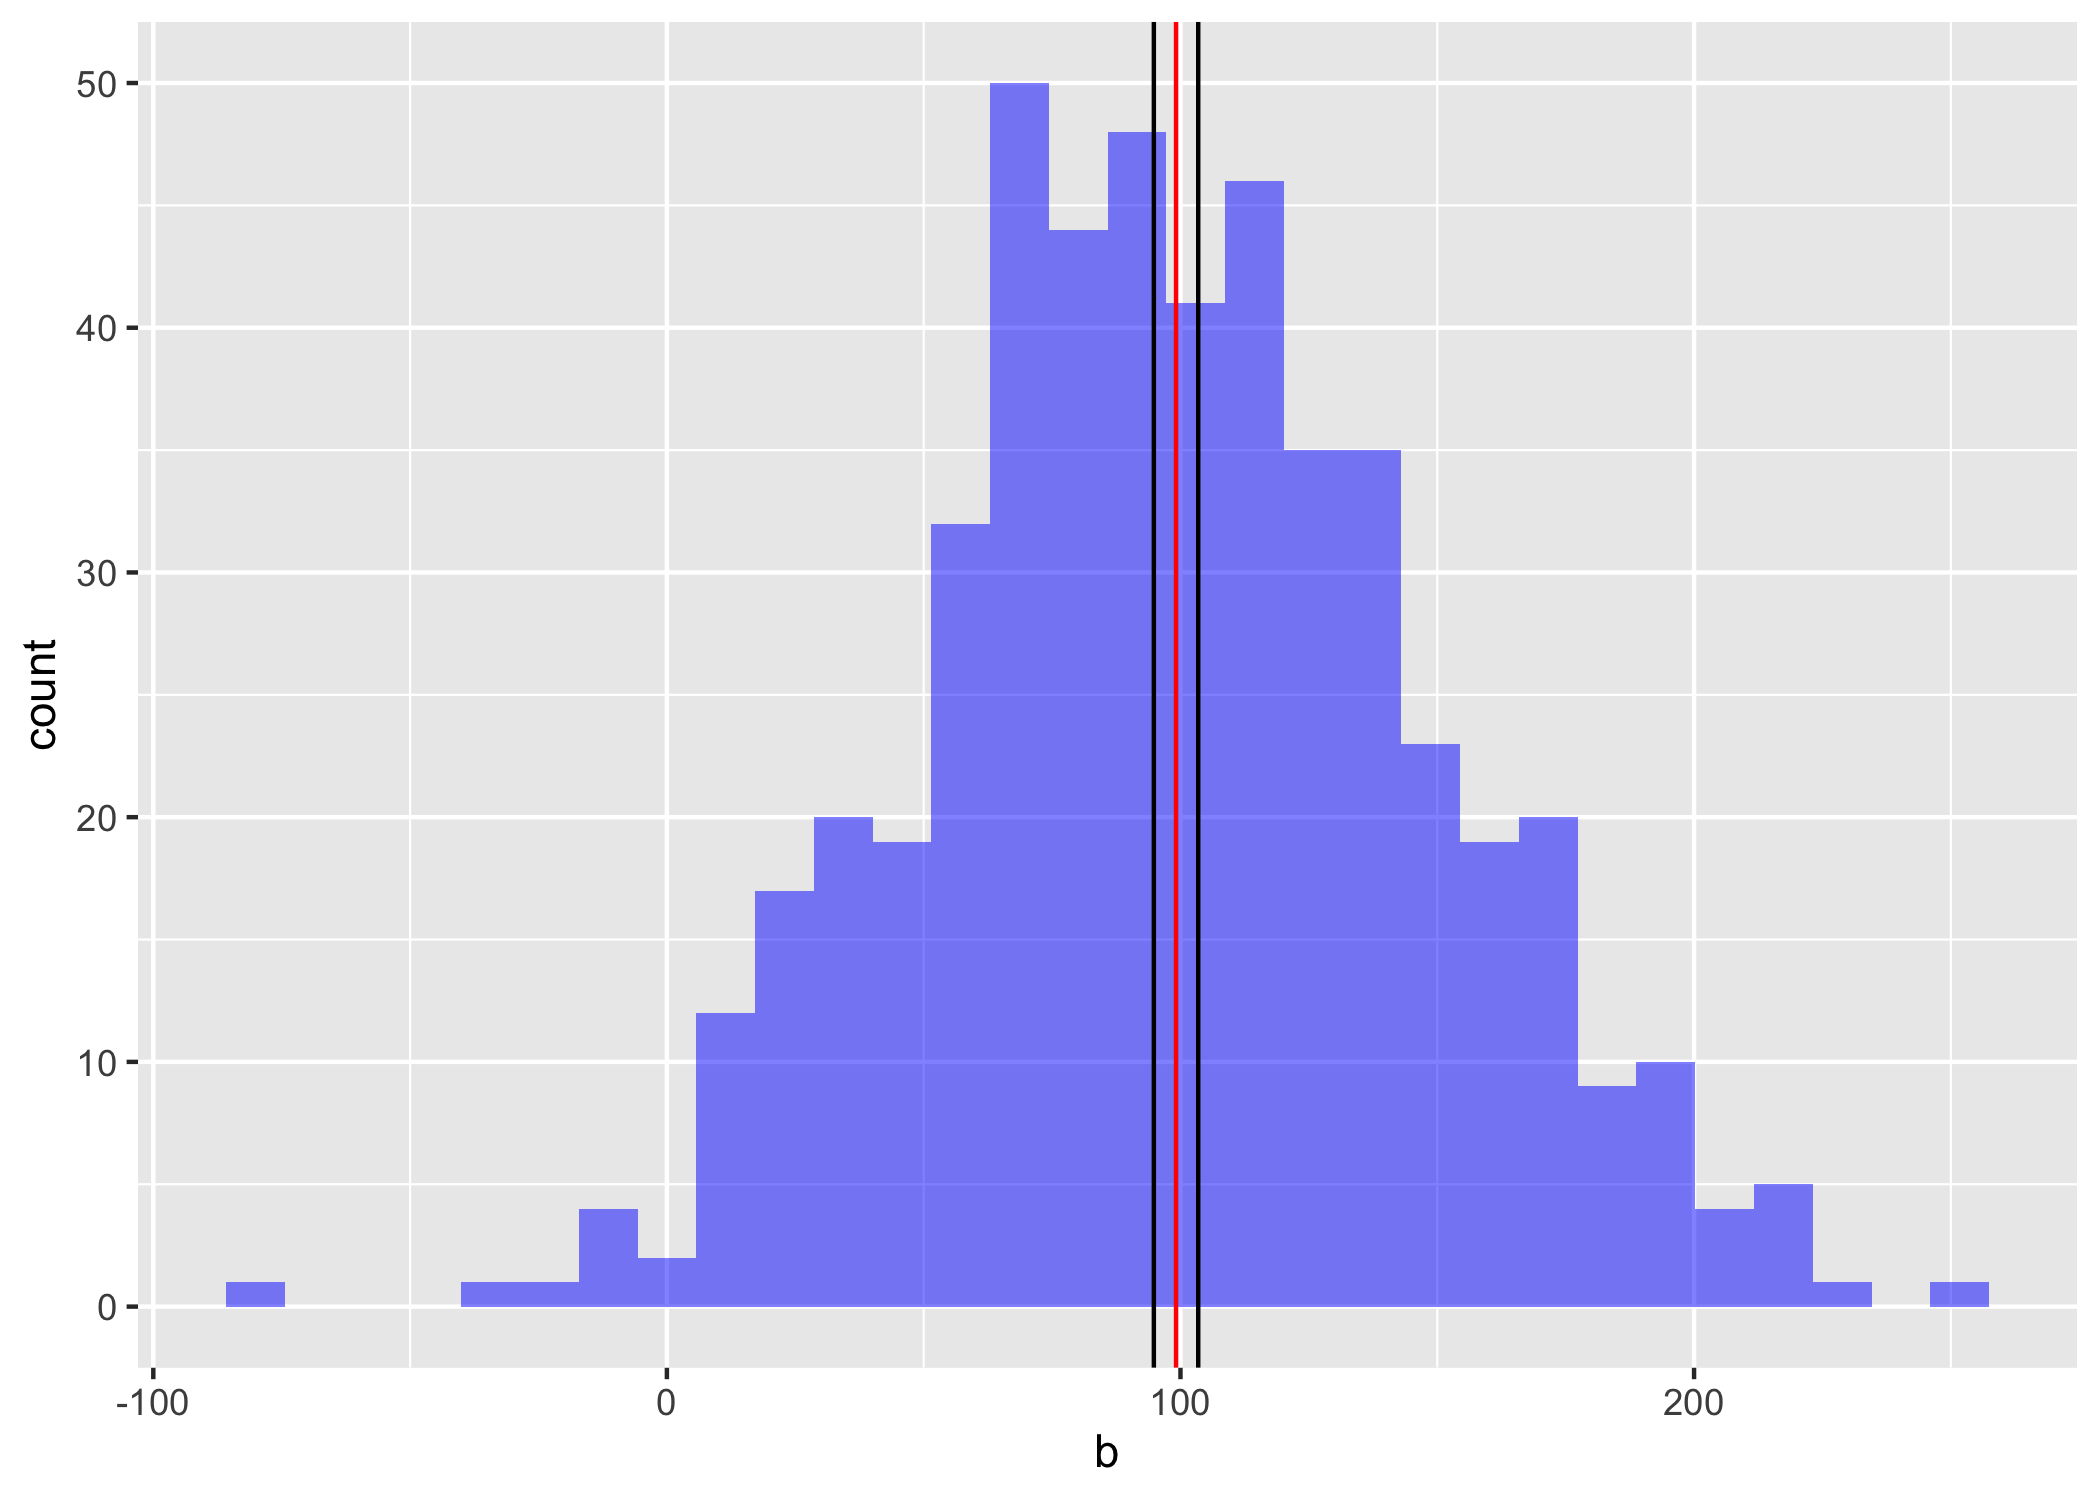
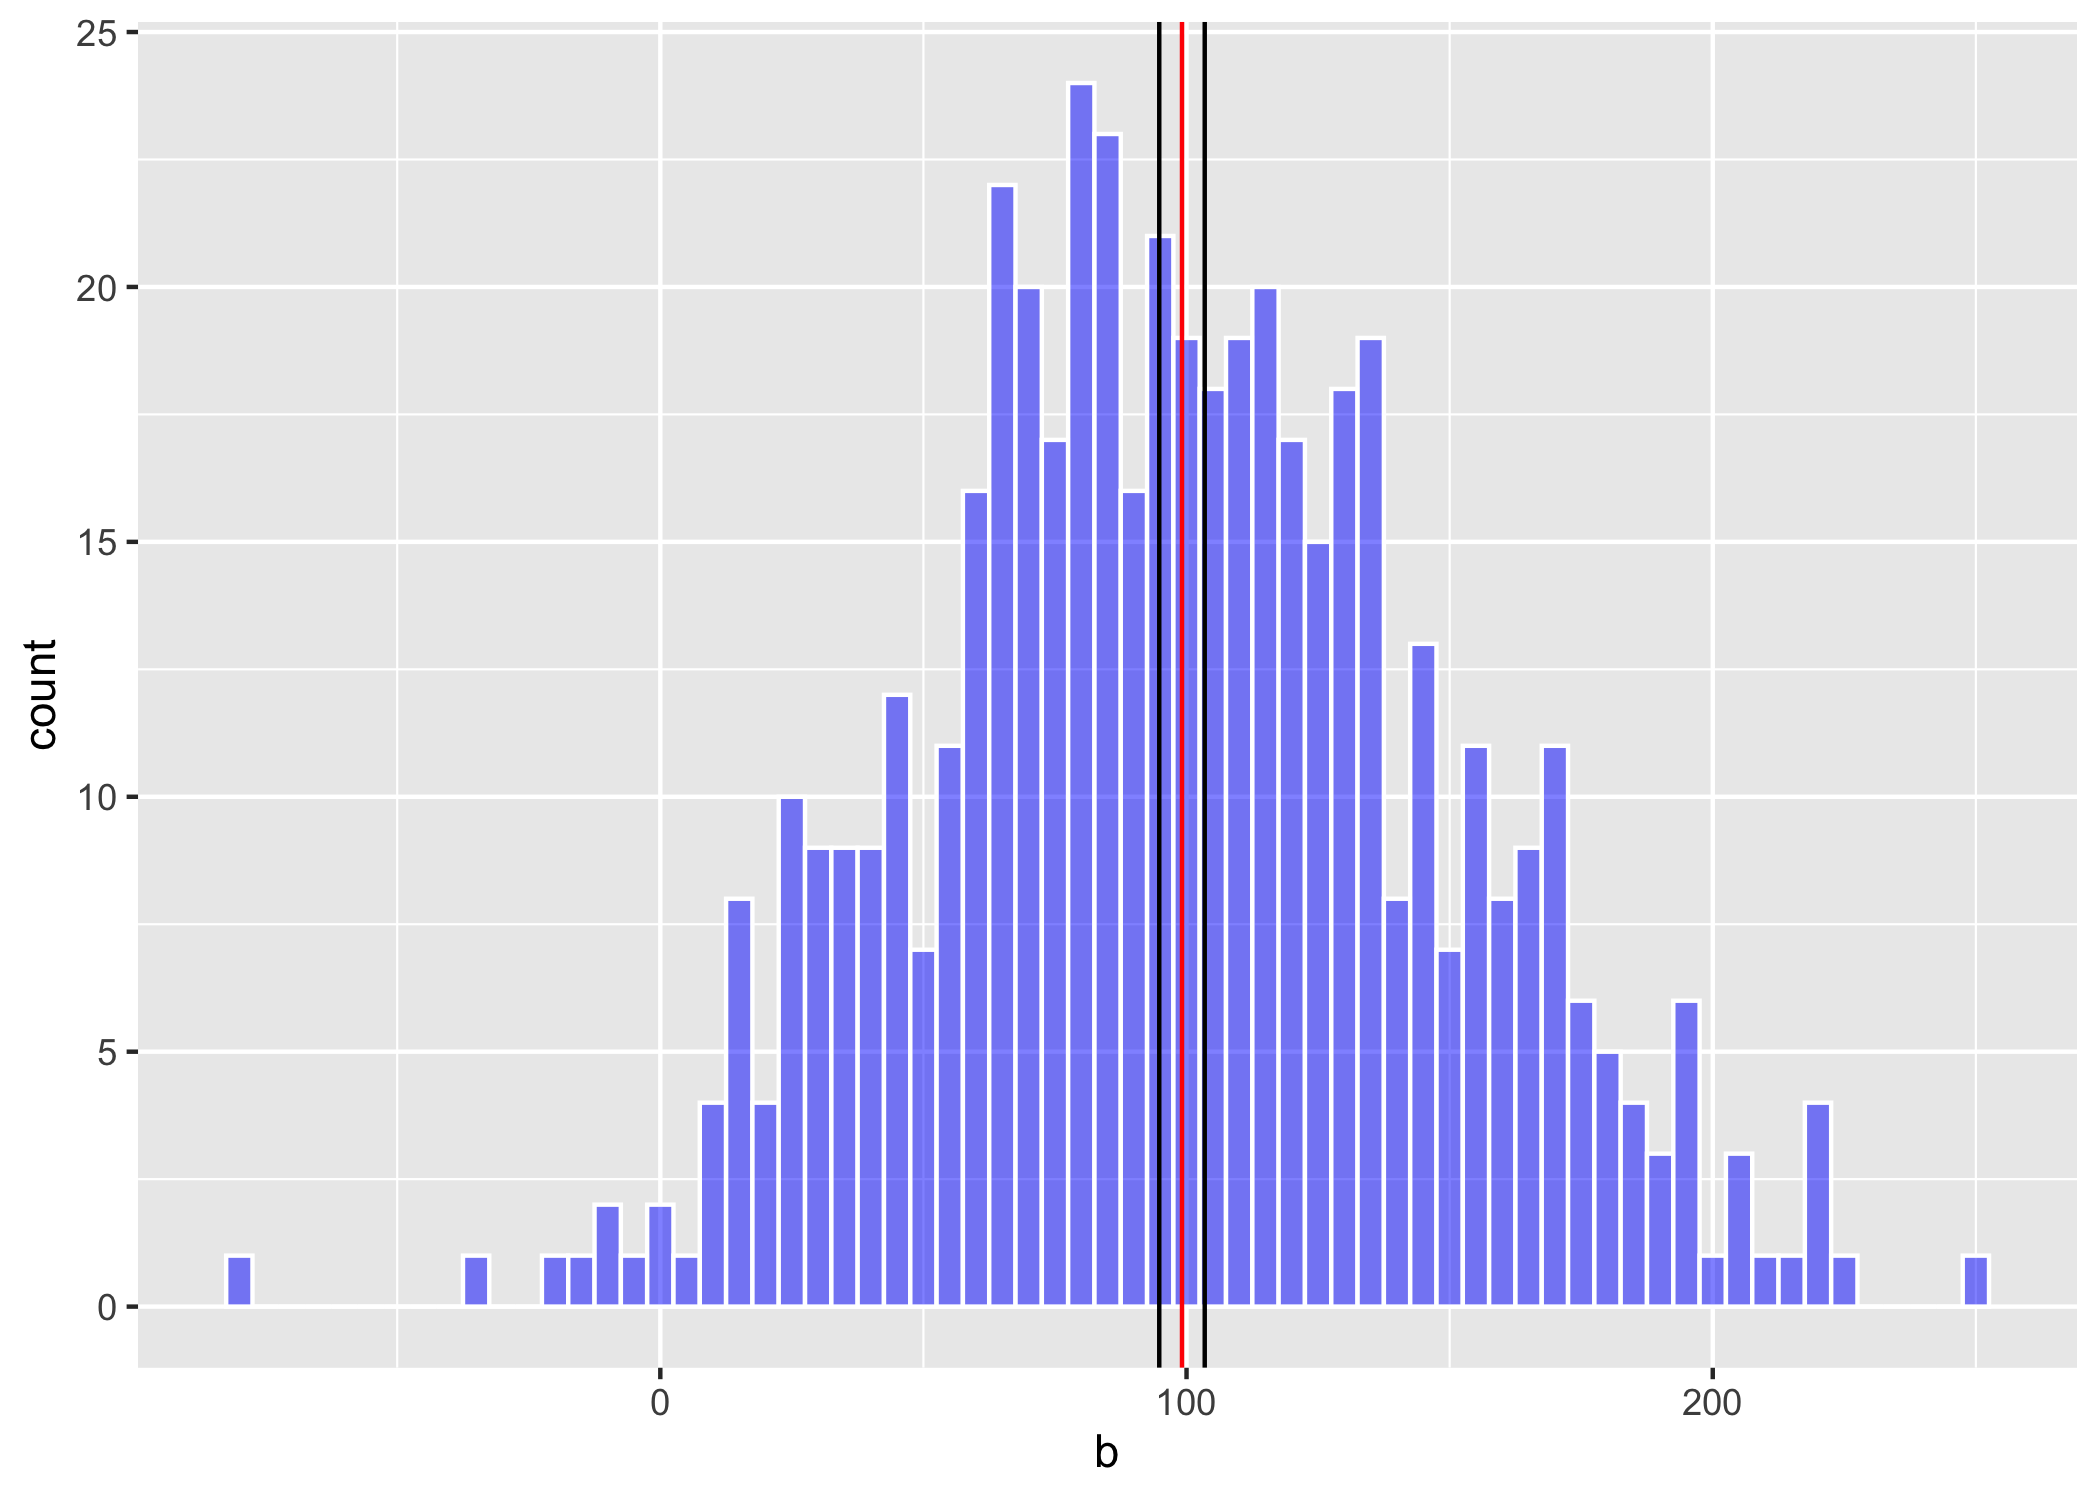
binwidth

diff --git a/T4_Medidas_dispersión.html b/T4_Medidas_dispersión.html
@@ -886,7 +886,7 @@ div.tocify {
 <pre><code>## [1] 103.4564</code></pre>
 <p>Visualizando el intervalos de confianza del promedio. Lo que uno observa es que primero el promedio puede ser en localidad diferentes porque el conjunto de datos fue menos en el segundo gráfico. Además vemos que el intervalo de 95% de confianza del promedio en el segundo es más amplio.</p>
 <div class="sourceCode" id="cb58"><pre class="sourceCode r"><code class="sourceCode r"><span id="cb58-1"><a href="#cb58-1"></a>CI_a=<span class="kw">ggplot</span>(dfa, <span class="kw">aes</span>(a))<span class="op">+</span></span>
-<span id="cb58-2"><a href="#cb58-2"></a><span class="st">  </span><span class="kw">geom_density</span>(<span class="dt">fill=</span><span class="st">&quot;blue&quot;</span>, <span class="dt">alpha=</span>.<span class="dv">5</span>)<span class="op">+</span></span>
+<span id="cb58-2"><a href="#cb58-2"></a><span class="st">  </span><span class="kw">geom_histogram</span>(<span class="dt">fill=</span><span class="st">&quot;blue&quot;</span>, <span class="dt">colour=</span><span class="st">&quot;white&quot;</span>,<span class="dt">alpha=</span>.<span class="dv">5</span>, <span class="dt">binwidth =</span> <span class="dv">2</span>)<span class="op">+</span></span>
 <span id="cb58-3"><a href="#cb58-3"></a><span class="st">  </span><span class="kw">theme</span>(<span class="dt">legend.position =</span> <span class="st">&quot;none&quot;</span>) <span class="op">+</span></span>
 <span id="cb58-4"><a href="#cb58-4"></a><span class="st">  </span><span class="kw">geom_vline</span>(<span class="kw">aes</span>(<span class="dt">xintercept =</span> <span class="dv">100</span>), <span class="dt">colour=</span><span class="st">&quot;red&quot;</span>)<span class="op">+</span></span>
 <span id="cb58-5"><a href="#cb58-5"></a><span class="st">  </span><span class="kw">geom_vline</span>(<span class="kw">aes</span>(<span class="dt">xintercept =</span> Limite_inferior_a), <span class="dt">colour=</span><span class="st">&quot;black&quot;</span>)<span class="op">+</span></span>
@@ -894,7 +894,7 @@ div.tocify {
 <span id="cb58-7"><a href="#cb58-7"></a><span class="kw">ggsave</span>(<span class="st">&quot;Graficos/CI_a.png&quot;</span>)</span></code></pre></div>
 <p><img src="Graficos/CI_a.png" width="60%" style="display: block; margin: auto;" /></p>
 <div class="sourceCode" id="cb59"><pre class="sourceCode r"><code class="sourceCode r"><span id="cb59-1"><a href="#cb59-1"></a>CI_b=<span class="kw">ggplot</span>(dfb, <span class="kw">aes</span>(b))<span class="op">+</span></span>
-<span id="cb59-2"><a href="#cb59-2"></a><span class="st">  </span><span class="kw">geom_histogram</span>(<span class="dt">fill=</span><span class="st">&quot;blue&quot;</span>, <span class="dt">alpha=</span>.<span class="dv">5</span>)<span class="op">+</span></span>
+<span id="cb59-2"><a href="#cb59-2"></a><span class="st">  </span><span class="kw">geom_histogram</span>(<span class="dt">fill=</span><span class="st">&quot;blue&quot;</span>, <span class="dt">colour=</span><span class="st">&quot;white&quot;</span>, <span class="dt">alpha=</span>.<span class="dv">5</span>, <span class="dt">binwidth =</span> <span class="dv">5</span>)<span class="op">+</span></span>
 <span id="cb59-3"><a href="#cb59-3"></a><span class="st">  </span><span class="kw">theme</span>(<span class="dt">legend.position =</span> <span class="st">&quot;none&quot;</span>) <span class="op">+</span></span>
 <span id="cb59-4"><a href="#cb59-4"></a><span class="st">  </span><span class="kw">geom_vline</span>(<span class="kw">aes</span>(<span class="dt">xintercept =</span>mean_b), <span class="dt">colour=</span><span class="st">&quot;red&quot;</span>)<span class="op">+</span></span>
 <span id="cb59-5"><a href="#cb59-5"></a><span class="st">  </span><span class="kw">geom_vline</span>(<span class="kw">aes</span>(<span class="dt">xintercept =</span> Limite_inferior_b), <span class="dt">colour=</span><span class="st">&quot;black&quot;</span>)<span class="op">+</span></span>
@@ -979,7 +979,7 @@ div.tocify {
 <span id="cb62-12"><a href="#cb62-12"></a>                 <span class="dv">235</span>,  <span class="st">&quot;</span><span class="ch">\n</span><span class="st">+1sd&quot;</span>,<span class="dv">274</span>, <span class="st">&quot;</span><span class="ch">\n</span><span class="st">+2sd&quot;</span>, <span class="dv">314</span>,<span class="st">&quot;</span><span class="ch">\n</span><span class="st">+3sd&quot;</span>, <span class="dv">379</span>)</span>
 <span id="cb62-13"><a href="#cb62-13"></a>Col<span class="op">%&gt;%</span></span>
 <span id="cb62-14"><a href="#cb62-14"></a><span class="kw">ggplot</span>(<span class="kw">aes</span>(Col))<span class="op">+</span></span>
-<span id="cb62-15"><a href="#cb62-15"></a><span class="st">  </span><span class="kw">geom_density</span>(<span class="dt">fill=</span><span class="st">&quot;blue&quot;</span>, <span class="dt">colour=</span><span class="st">&quot;white&quot;</span>,<span class="dt">alpha=</span>.<span class="dv">5</span>)<span class="op">+</span></span>
+<span id="cb62-15"><a href="#cb62-15"></a><span class="st">  </span><span class="kw">geom_histogram</span>(<span class="dt">fill=</span><span class="st">&quot;blue&quot;</span>, <span class="dt">colour=</span><span class="st">&quot;white&quot;</span>,<span class="dt">alpha=</span>.<span class="dv">5</span>, <span class="dt">binwidth =</span> <span class="dv">5</span>)<span class="op">+</span></span>
 <span id="cb62-16"><a href="#cb62-16"></a><span class="st">  </span><span class="kw">theme</span>(<span class="dt">legend.position =</span> <span class="st">&quot;none&quot;</span>)<span class="op">+</span></span>
 <span id="cb62-17"><a href="#cb62-17"></a><span class="st">  </span><span class="kw">geom_vline</span>(<span class="dt">xintercept=</span><span class="kw">as.numeric</span>(promCol), <span class="dt">colour=</span><span class="st">&quot;black&quot;</span>)<span class="op">+</span></span>
 <span id="cb62-18"><a href="#cb62-18"></a><span class="st">  </span><span class="kw">geom_vline</span>(<span class="kw">aes</span>(<span class="dt">xintercept =</span> <span class="kw">as.numeric</span>(promCol<span class="op">-</span>sdCol)), <span class="dt">colour=</span><span class="st">&quot;blue&quot;</span>)<span class="op">+</span></span>
